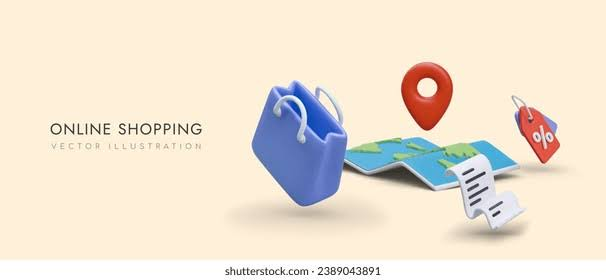
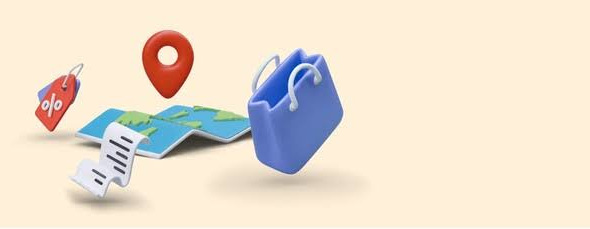
kr1 visual edit

diff --git a/index.html b/index.html
@@ -16,8 +16,9 @@
 <body>
 
   <header class="site-header">
+    <img class="site-header__decorative-img" src="../images/header.jpg" alt="">
     <div class="site-header__inner">
-      <a class="site-header__logo" href="index.html">ShopProject</a>
+      <a class="site-header__logo" href="index.html">Магазин</a>
 
       <nav class="site-nav" aria-label="Основная навигация">
         <ul class="site-nav__list">
@@ -65,18 +66,18 @@
       <h2>Популярные товары</h2>
 
       <div class="products-grid">
-        <article class="product-card product-card--featured">
-          <h3 class="product-card__title">Товар 1</h3>
-          <p class="product-card__description">Краткое описание учебного товара.</p>
-          <p class="product-card__price">Цена: 1000 руб.</p>
+        <article class="product-card product-card--featured" id="bottle">
+          <h3 class="product-card__title">Voda</h3>
+          <p class="product-card__description">Вода минеральная</p>
+          <p class="product-card__price">Цена: 69.99 руб.</p>
           <button class="button product-card__button" type="button" data-product="Товар 1">
             Заказать
           </button>
         </article>
 
-        <article class="product-card product-card--featured">
-          <h3 class="product-card__title">Товар 2</h3>
-          <p class="product-card__description">Краткое описание учебного товара.</p>
+        <article class="product-card product-card--featured" id="bread">
+          <h3 class="product-card__title">Хлеб "Даниловский"</h3>
+          <p class="product-card__description">Пшеничный</p>
           <p class="product-card__price">Цена: 1000 руб.</p>
           <button class="button product-card__button" type="button" data-product="Товар 1">
             Заказать
@@ -85,6 +86,24 @@
 
         <article class="product-card product-card--featured">
           <h3 class="product-card__title">Товар 3</h3>
+          <p class="product-card__description">Краткое описание учебного товара.</p>
+          <p class="product-card__price">Цена: 1000 руб.</p>
+          <button class="button product-card__button" type="button" data-product="Товар 1">
+            Заказать
+          </button>
+        </article>
+      </div>
+      <div class="products-grid">
+        <article class="product-card product-card--featured" id="test-product-1">
+          <h3 class="product-card__title">Товар 5</h3>
+          <p class="product-card__description">Краткое описание учебного товара.</p>
+          <p class="product-card__price">Цена: 1000 руб.</p>
+          <button class="button product-card__button" type="button" data-product="Товар 1">
+            Заказать
+          </button>
+        </article>
+        <article class="product-card product-card--featured" id="test-product">
+          <h3 class="product-card__title">Товар 4</h3>
           <p class="product-card__description">Краткое описание учебного товара.</p>
           <p class="product-card__price">Цена: 1000 руб.</p>
           <button class="button product-card__button" type="button" data-product="Товар 1">

diff --git a/css/styles.css b/css/styles.css
@@ -7,15 +7,18 @@
   --color-bg: #ffffff;
   --color-text: #222222;
   --color-muted: #666666;
-  --color-primary: #0057b8;
-  --color-primary-dark: #003f86;
+  --color-primary: #b85c00;
+  --color-primary-dark: #783c00;
   --color-border: #dddddd;
   --color-surface: #f7f7f7;
-  --color-surface-accent: #eef5ff;
+  --color-surface-accent: #fff7ee;
   --color-danger: #b00020;
   --color-success: #168a2f;
   --color-success-bg: #eefaf0;
   --color-white: #ffffff;
+  --color-header-background: #fff0d9;
+  --color-header-background-dark: #d5b9ae;
+
 
   /* Отступы */
   --space-xs: 4px;
@@ -36,6 +39,9 @@
 :target {
   outline: 2px dashed var(--color-primary);
   outline-offset: 4px;
+  border-radius: 2px;
+  padding: 15px;
+  opacity: 1;
 }
 
 /* ===============================
@@ -73,7 +79,9 @@ footer {
 */
 header {
   background-color: var(--color-surface);
-  background-image: url(images/header.jpg);
+  background-image: linear-gradient(to right, var(--color-header-background) 60%, var(--color-header-background-dark) 100%);
+  object-fit: cover;
+  background-repeat: no-repeat;
 }
 
 footer {
@@ -103,19 +111,33 @@ a:focus-visible {
   чтобы оно не растягивалось слишком сильно на широких экранах.
 */
 .site-header {
+  position: relative;
   background-color: var(--color-surface);
+  overflow: hidden;
+}
+
+.site-header__decorative-img {
+  position: absolute;
+  top: 0;
+  left: 50px;
+  height: 100%;          /* высота = высоте шапки, но шапку НЕ увеличивает */
+  width: auto;
 }
 
 .site-header__inner {
+  display: grid;
   max-width: var(--container-width);
   margin: 0 auto;
   padding: var(--space-lg);
 }
 
 .site-header__logo {
-  font-weight: 700;
+  font-weight: 900;
+  font-size: xx-large;
+  font-family: Impact, Haettenschweiler, 'Arial Narrow Bold', sans-serif;
   color: var(--color-text);
   text-decoration: none;
+  justify-self: center;
 }
 
 .site-nav__list {
@@ -178,6 +200,11 @@ a:focus-visible {
   margin-top: 0;
 }
 
+#popular {
+  max-width: calc(var(--container-width) + 30px);
+  padding: 15px;
+}
+
 /*
   Карточка товара — самостоятельный блок.
   На следующих занятиях карточки будут доработаны и выстроены в сетку.
@@ -226,6 +253,27 @@ a:focus-visible {
 .product-card__button {
   margin-top: auto;
   align-self: flex-start;
+}
+
+#bottle {
+  background-image: url(../images/bottle.jpg);
+}
+
+#bread {
+  background-image: url(../images/bread.jpg);
+  background-size: 100%;
+  background-position: 20px, -20px;
+  background-repeat: no-repeat;
+}
+
+#test-product {
+  margin-top: var(--space-lg);
+  grid-area: 1 / 2 / span 1 / span 2;
+  height: 300px;
+}
+
+#test-product-1 {
+  margin-top: var(--space-lg);
 }
 
 .button {

diff --git a/contacts.html b/contacts.html
@@ -13,8 +13,9 @@
 </head>
 <body>
   <header class="site-header">
+    <img class="site-header__decorative-img" src="../images/header.jpg" alt="">
     <div class="site-header__inner">
-      <a class="site-header__logo" href="index.html">ShopProject</a>
+      <a class="site-header__logo" href="index.html">Магазин</a>
 
       <nav class="site-nav" aria-label="Основная навигация">
         <ul class="site-nav__list">
@@ -41,9 +42,9 @@
 
   <main>
     <nav class="breadcrumbs" aria-label="Хлебные крошки">
-      <a href="index.html">Главная</a>
-      <span>Контакты</span>
-    </nav>
+        <a class="breadcrumbs__link" href="index.html">Главная</a>
+        <span class="breadcrumbs__current">Каталог</span>
+      </nav>
 
     <section class="section">
       <h1>Контакты</h1>

diff --git a/catalog.html b/catalog.html
@@ -13,8 +13,9 @@
 </head>
 <body>
   <header class="site-header">
+    <img class="site-header__decorative-img" src="../images/header.jpg" alt="">
     <div class="site-header__inner">
-      <a class="site-header__logo" href="index.html">ShopProject</a>
+      <a class="site-header__logo" href="index.html">Магазин</a>
 
       <nav class="site-nav" aria-label="Основная навигация">
         <ul class="site-nav__list">
